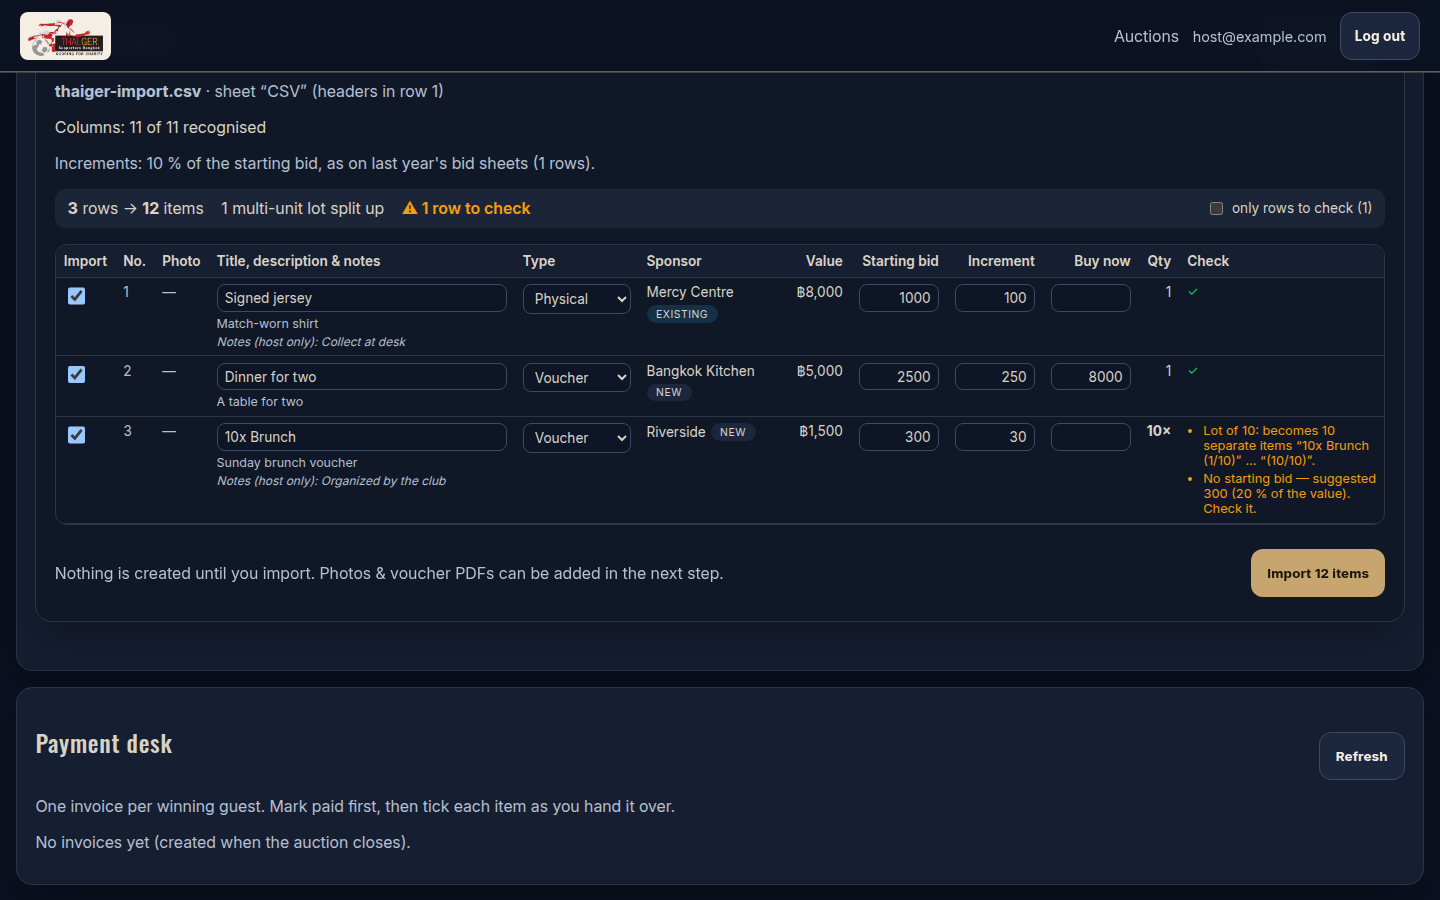
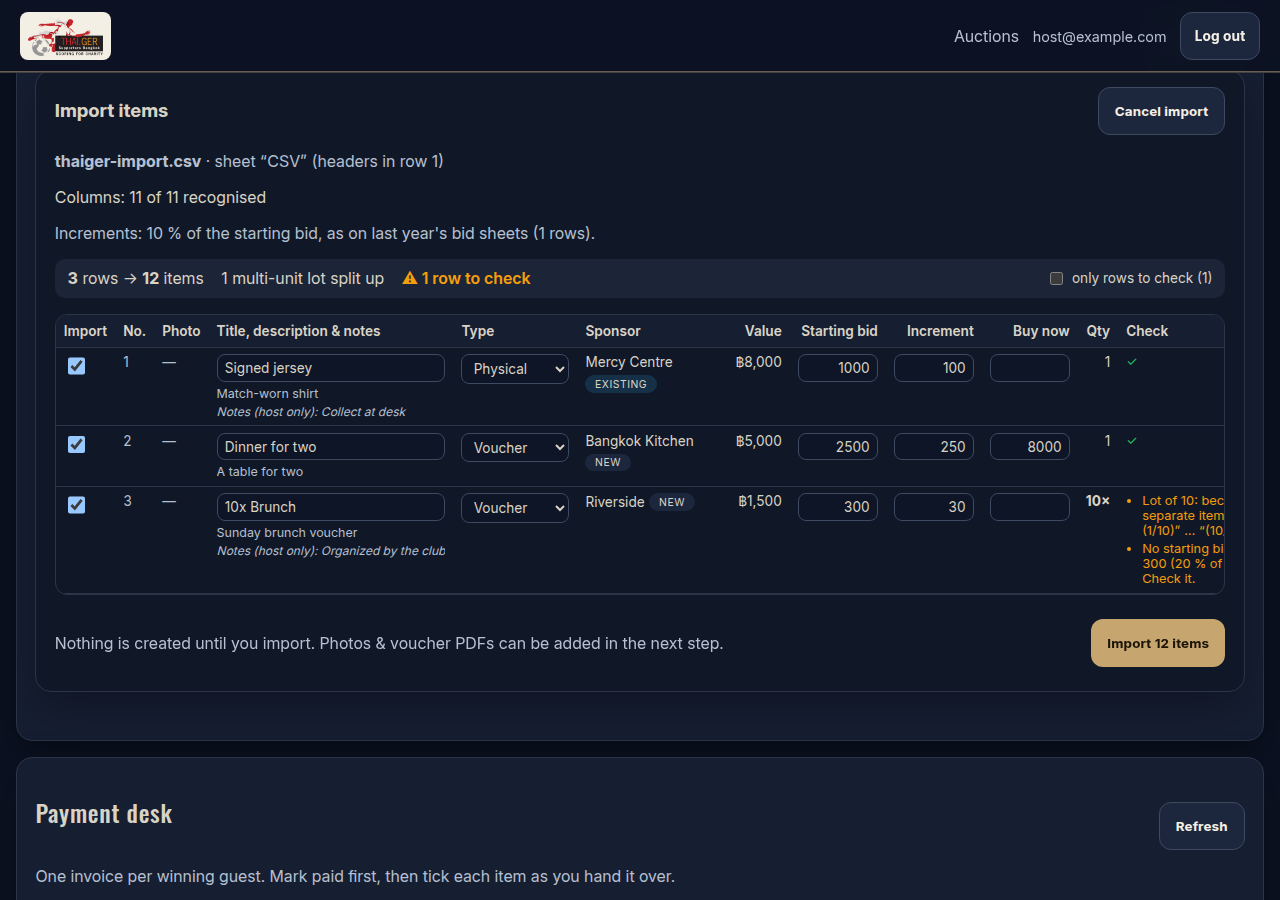
Replace the host screenshots with ones taken from the live navy theme.
The auctions list, event card, import preview, help desk, payment desk and users page were checked in the running app. These images are that pass.

diff --git a/README.md b/README.md
@@ -42,7 +42,9 @@ More details:
 
 ## Host flow
 
-Open **`/host`**.
+Open **`/host`**. The host desk uses the same navy and gold gala skin as the phones and the big screen.
+
+<p align="center"><img src="docs/screenshots/host-auctions.png" width="760" alt="Host auctions list: navy cards, gold actions, no lime stripe"></p>
 
 1. **Register the owner.** The first registration needs the one-time `BOOTSTRAP_TOKEN` from your env; after that, registration is closed. Hosts sign in with email + password (bcrypt, httpOnly session cookie). The owner can add and remove more host logins by email.
 2. **Payment settings:** a PromptPay ID (phone or 13-digit national ID) and payee name, and/or an uploaded static QR image. Saving shows "✓ Saved — PromptPay …" next to the button.
@@ -74,7 +76,7 @@ Open **`/host`**.
 
 **Event card → Items → Import items** (only before the first bid). Upload an `.xlsx` or `.csv`; nothing is created until you press **Import N items**. The summary counts **rows to check** (exactly the rows the "only rows to check" filter shows), and the item count follows your edits as you type a price.
 
-<p align="center"><img src="docs/screenshots/host-import-preview.png" width="760" alt="Import preview: column mapping, summary, editable rows with warnings"></p>
+<p align="center"><img src="docs/screenshots/host-import-preview.png" width="760" alt="Import preview on the navy and gold theme: column mapping, summary, editable rows"></p>
 
 - **Sheet & columns:** the sheet named `Prizes` (also `Preise`, `Items`, `Lots`) is used, otherwise the first sheet that isn't a paper bid sheet (`Liste 1`, `Liste 2`, … are ignored). The header row is found automatically (last year's file has it in row 3). English and German headers are recognised (`No.`/`Nr.`, `Title`/`Titel`, `Description`/`Beschreibung`, `Sponsor Name`/`Spender`, `Approximate Value`/`Wert`, `Suggested Minimum`/`Mindestgebot`, `Minimum Steps`/`Schrittweite`, `Buy now`/`Sofortkauf`, `Quantity`/`Anzahl`, `Remark`/`Bemerkung`, `Organized by`, …). Result columns of a past auction (`Final Price achieved`, `Bought by`, `Money received?`, `Payment Method`, `Handed over?`) are never imported. Any column can be (re)mapped with a dropdown; unrecognised columns are highlighted.
 - **Defaults:** no title column → the first line of the description (dates in brackets stay in the description; a "retail value …" line is dropped because the card shows the value). Increment missing → **10 % of the starting bid** (last year's bid sheets used `=E11/10`). Starting bid missing but a value given → 20 % of the value (flagged). Type is guessed — **voucher** if the text mentions voucher / Gutschein / hotel / night / spa / brunch / dinner / restaurant / massage …, else **physical** — and can be changed per row. Sponsors are matched to existing ones by name (case-insensitive) and marked *new* / *existing*. "Organized by" goes into the host-only notes.
